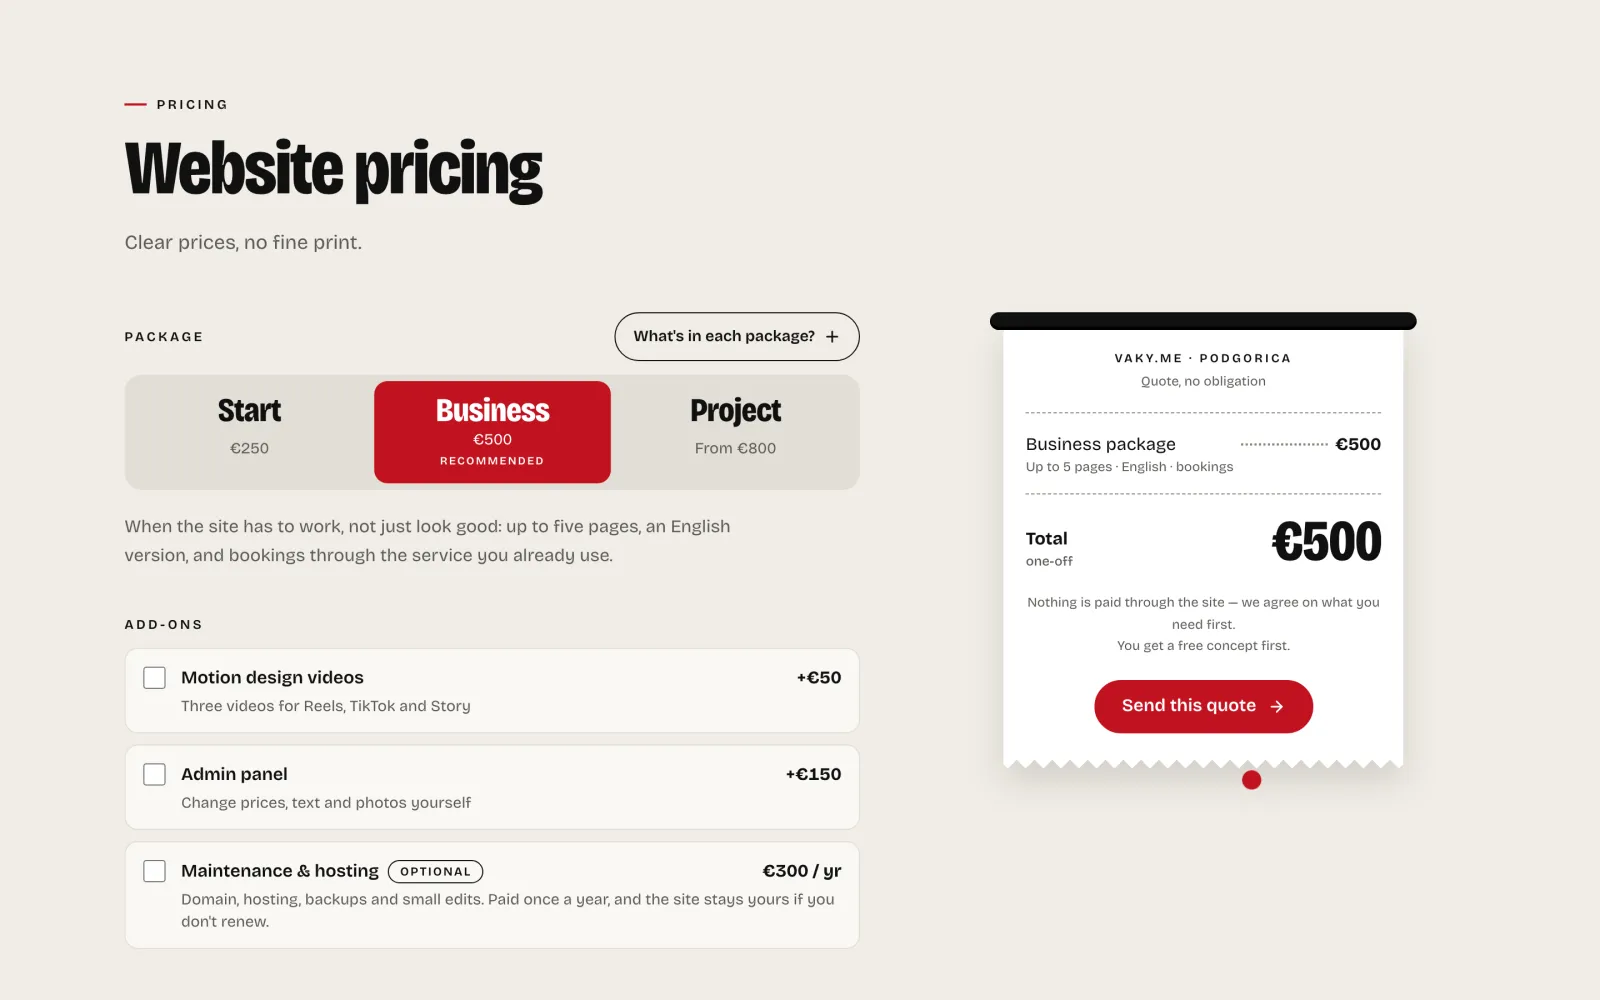
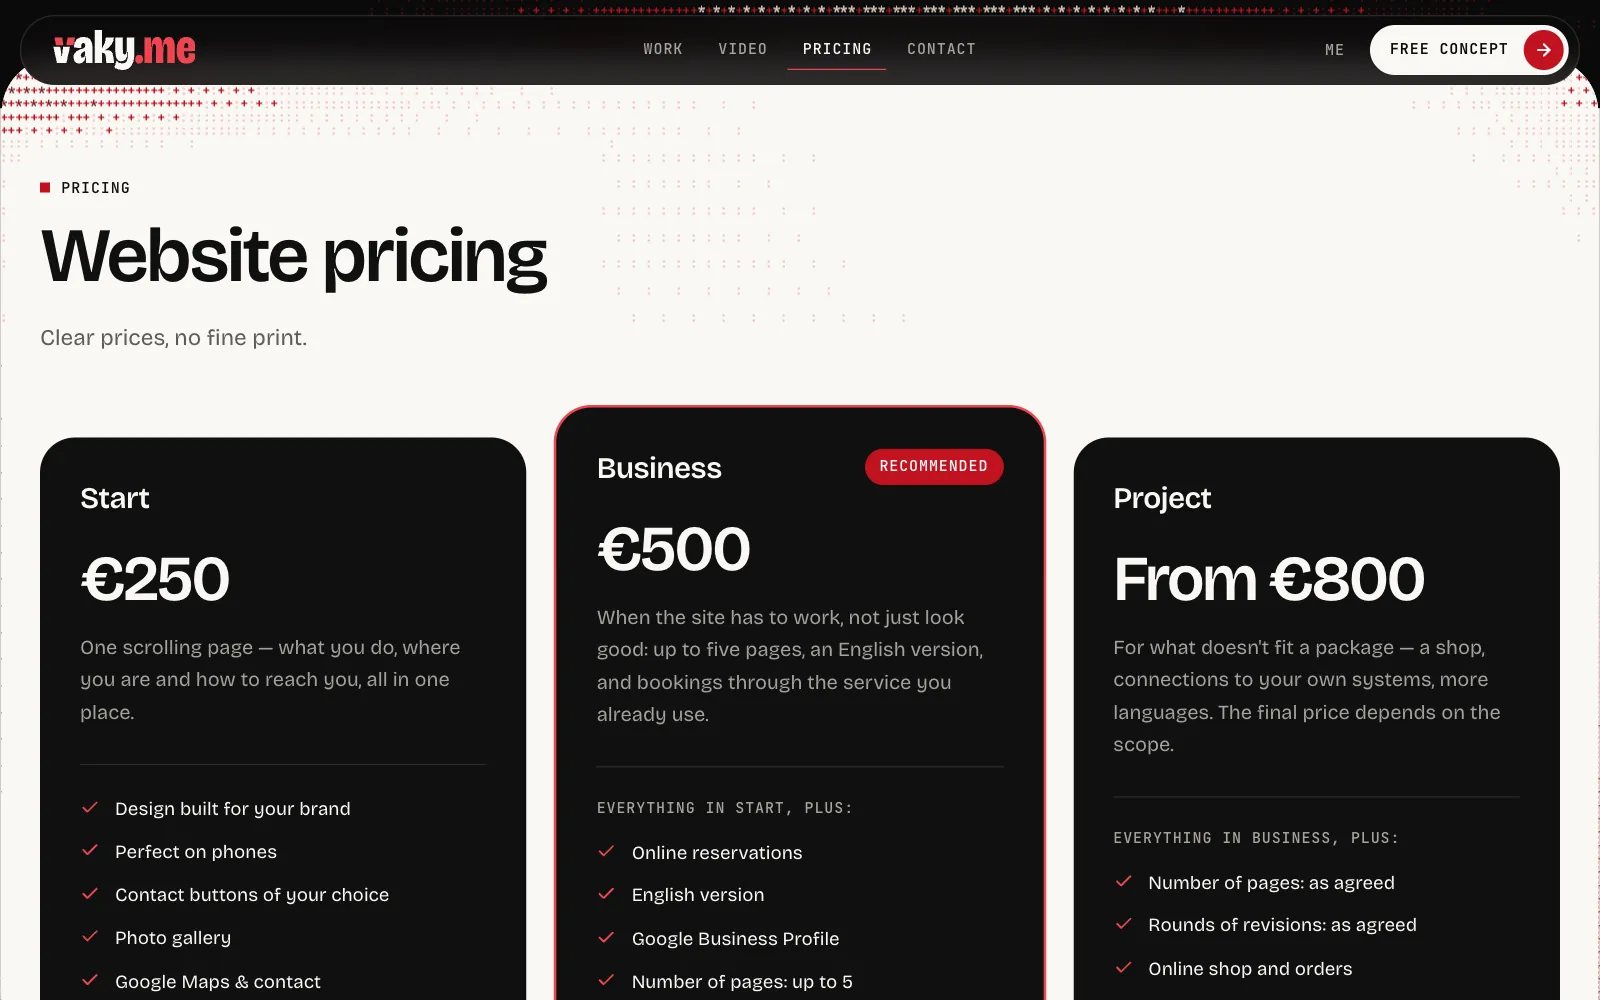
Vaky.me shows its November redesign, and Reform Fitness its 100+ members
New screenshots of the redesigned vaky.me (hero, live work, motion videos,
pricing). The case study drops the price calculator and the showreel the
redesign removed, names the three.js hero and the /eu/ page, counts the 7
motion videos the page shows, and adds three.js to the stack. The demo
script rests on a package card instead of the calculator. Reform Fitness
quotes the 100+ members from its case study on vaky.me.

diff --git a/src/app/projects.ts b/src/app/projects.ts
@@ -57,7 +57,8 @@ export const PROJECTS: Project[] = [
       "Owner's panel in the same app: members, memberships and payments, the schedule, a weekly template and invites",
     ],
     result: [
-      "Live for the studio's members, built and shipped in October 2026.",
+      // 100+: the Reform case study on vaky.me (src/i18n/en.ts in the Vaky.me repo)
+      "Live for the studio's members, built and shipped in October 2026; more than 100 members use it across both studios.",
       "Tested at three levels: unit tests, Firestore rules and the API against the Firebase emulators, and an end-to-end run through the Functions emulator.",
     ],
     kpis: [
@@ -185,13 +186,13 @@ export const PROJECTS: Project[] = [
     slug: "vaky",
     title: "Vaky.me",
     blurb:
-      "My own web studio's site and back office: a bilingual static Next.js export selling websites, apps and motion design videos to local businesses, with a page of its own for US small businesses, and Cloudflare Pages Functions behind it that take an enquiry through lead, project, private onboarding brief and build brief. No payments, no CMS.",
+      "My own web studio's site and back office: a bilingual static Next.js export selling websites, apps and motion design videos to local businesses, with pages of their own for US and European small businesses, and Cloudflare Pages Functions behind it that take an enquiry through lead, project, private onboarding brief and build brief. No payments, no CMS.",
     problem:
       "A one-person studio needed a site that sells websites to Montenegrin restaurants, salons and gyms, and a way to take an enquiry through to a signed-off brief without email threads and spreadsheets.",
     highlights: [
-      "Static Next.js 16 export in two languages, plus a /us/ page without the euro prices; 15 concept sites for Montenegrin trades under /demo and 50 for US businesses under /c/, each a real page",
-      "Prices as a calculator that prints the bill as the package and add-ons change; nothing is paid through the site",
-      "The motion design videos it sells and shows are Remotion compositions in the same repo, the site's own showreel rendered from the shots the page builds",
+      "Static Next.js 16 export in two languages, plus a /us/ page without the euro prices and a /eu/ page for Europe outside the Balkans; 15 concept sites for Montenegrin trades under /demo and 50 for US businesses under /c/, each a real page",
+      "Redesigned in November 2026: the hero is a three.js V, a lattice of crosses that gathers, cuts and scatters and can be dragged, over ASCII dot fields, and the sections dive in as sheets",
+      "The motion design videos it sells and shows are rendered from a Remotion project in the same repo",
       "Pages Functions + D1 + R2: lead form, admin dashboard, single-use onboarding links that carry the package server-side",
       "Three layers before a stranger's write: edge rate limit, honeypot, Turnstile, and an address whose domain takes no mail is refused; strict CSP from public/_headers",
     ],
@@ -205,13 +206,14 @@ export const PROJECTS: Project[] = [
       { label: "API endpoints", value: "24 Pages Functions" },
       // ls src/app/\(me\)/demo | wc -l; ls public/c | grep -v '^_' | wc -l
       { label: "concept sites", value: "15 in Montenegro, 50 for the US" },
-      // ls public/video/*.mp4 | wc -l
-      { label: "motion design videos", value: "9 on the site, Remotion" },
+      // grep -c 'file: "' src/i18n/en.ts (the motion row; public/video also
+      // keeps the two showreels the November redesign took off the page)
+      { label: "motion design videos", value: "7 on the site, Remotion" },
     ],
     role: "Solo build, own studio",
     kind: "build",
     context: "Vaky, since August 2026",
-    stack: ["Next.js 16", "TypeScript", "Cloudflare Pages Functions", "D1", "R2", "Remotion"],
+    stack: ["Next.js 16", "TypeScript", "three.js", "Cloudflare Pages Functions", "D1", "R2", "Remotion"],
     live: "https://vaky.me/en/",
     code: null,
     note: "The studio's repository is private, so there is no code link.",
@@ -222,7 +224,7 @@ export const PROJECTS: Project[] = [
       { src: "/images/projects/vaky.webp", label: "Home" },
       { src: "/images/projects/vaky-work.webp", label: "Live work" },
       { src: "/images/projects/vaky-motion.webp", label: "Motion design videos" },
-      { src: "/images/projects/vaky-pricing.webp", label: "Price calculator" },
+      { src: "/images/projects/vaky-pricing.webp", label: "Pricing" },
     ],
   },
   {
@@ -504,8 +506,9 @@ export const VAKY_CASE = {
   codeFile: "lead.ts",
   arch: `cloudflare pages ── next 16 static export
  │  (me)/ and (en)/ route groups
+ │   three.js V hero · ascii dot fields
  │   15 concept sites under /demo
- │   /us/ page · 50 US concepts in /c/
+ │   /us/ and /eu/ · 50 US concepts in /c/
  │   public/_headers: strict CSP
  └─ functions/ pages functions
      ├ api/lead  the one public write
